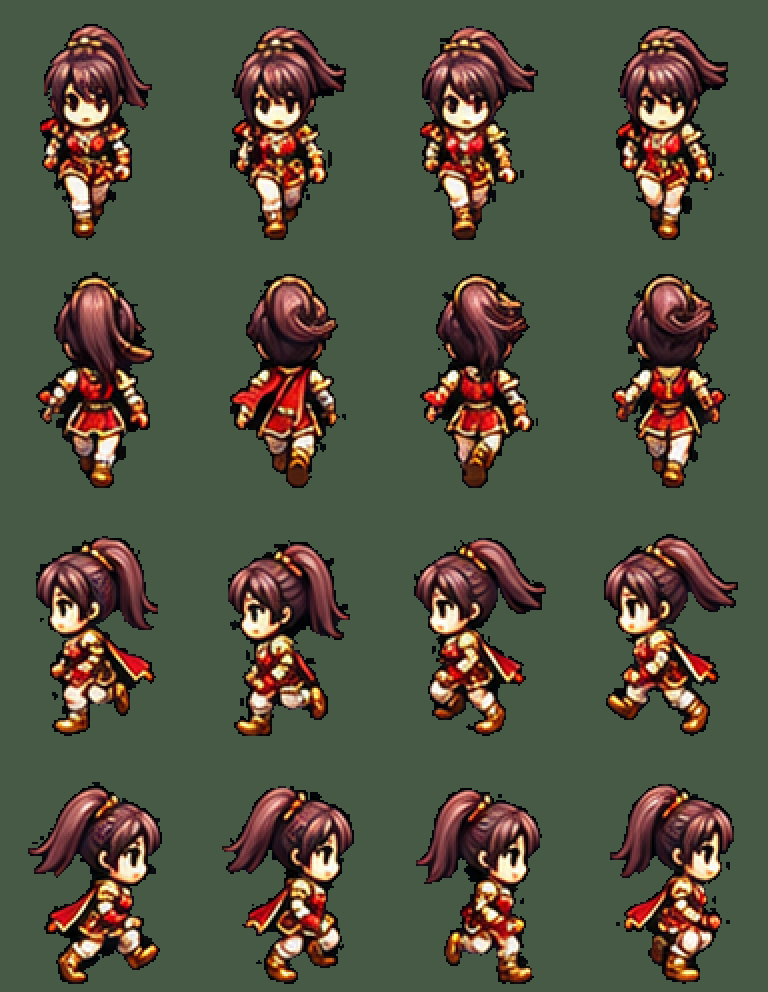
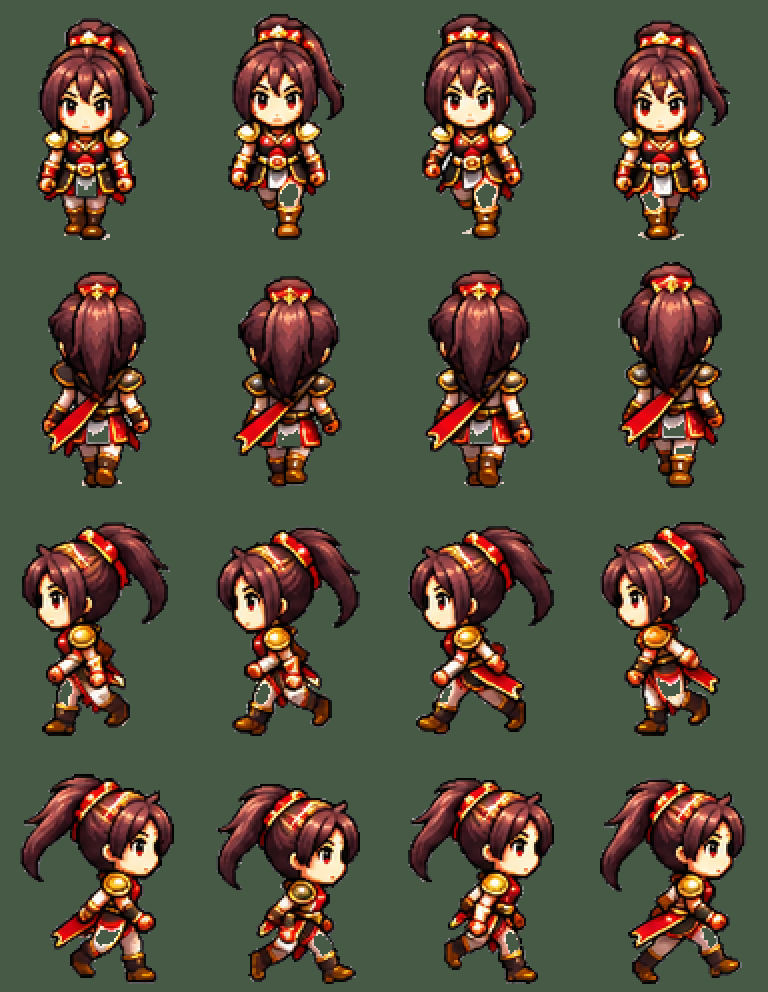
V2-R47: spirit heir, guardian and new female fighter class bodies
- Spirit heir m/f (4 directions), guardian m/f (front/back), redesigned female fighter (4 directions)
- Converter supports framed 4-panel, 2x2 group and two-row layouts
- Tests: smoke 134/134, online 97/97

Claude-Session: https://claude.ai/code/session_01Fx9SAiv1fdMtU2kmML8rNS

diff --git a/tools/smoke-test.js b/tools/smoke-test.js
@@ -515,11 +515,11 @@ const rec = (name, pass, detail) => { results.push({ name, pass, detail }); cons
         const f = HL.fxList.find(f => /^cchart/.test(f.k)); out.push(d + ':' + (f ? f.k + (f.k === 'cchartud' ? (f.up ? '/up' : '/down') : '') : '-')); HL.PS.cast = null }
       HL.PS.cls = 'นักดาบ'; HL.buildSkills(); return out.join(' ') });
     rec('นักธนู/ผู้พิทักษ์ 4 ทิศ: หันลง/ขึ้นใช้ตาราง DOWN/UP 5 จังหวะ, ซ้ายใช้ตารางขวากลับด้าน', r === 'S:cchartud/down N:cchartud/up W:cchart S:cchartud/down N:cchartud/up W:cchart', r); }
-  { const r = await page.evaluate(async () => { const want = { 'นักสู้': ['fighter_m', 'fighter_f'], 'นักฆ่า': ['assassin_m', 'assassin_f'], 'ผู้ใช้มนตรา': ['mage', 'mage'], 'ผู้รักษา': ['healer', 'healer'] };
+  { const r = await page.evaluate(async () => { const want = { 'นักสู้': ['fighter_m', 'fighter_f'], 'นักฆ่า': ['assassin_m', 'assassin_f'], 'ผู้ใช้มนตรา': ['mage', 'mage'], 'ผู้รักษา': ['healer', 'healer'], 'ผู้สืบวิญญาณ': ['spirit_m', 'spirit_f'], 'ผู้พิทักษ์': ['guardian_m', 'guardian_f'] };
       for (let i = 0; i < 200 && !Object.keys(want).every(c => HL.classBody(c, { g: 'm' }) && HL.classBody(c, { g: 'f' })); i++) await new Promise(r => setTimeout(r, 50));
       const bad = []; for (const [c, [m, f]] of Object.entries(want)) { const a = HL.classBody(c, { g: 'm' }), b = HL.classBody(c, { g: 'f' }); if (!a || !a.src.includes('pcl_' + m) || a.naturalWidth !== 384 || !b || !b.src.includes('pcl_' + f)) bad.push(c) }
       return { bad, sword: !!HL.classBody('นักดาบ', { g: 'm' }) } });
-    rec('ตัวละครต้นแบบอาชีพ: นักสู้/นักฆ่า (ชาย-หญิง), มนตรา, รักษา โหลดได้ 4 ทิศ; นักดาบใช้ตัวเดิม', r.bad.length === 0 && !r.sword, JSON.stringify(r)); }
+    rec('ตัวละครต้นแบบอาชีพ 6 อาชีพโหลดได้ 4 ทิศ; นักดาบใช้ตัวเดิม', r.bad.length === 0 && !r.sword, JSON.stringify(r)); }
   rec('หน้าเกมปกติ (ระบบทดสอบอัตโนมัติ) ข้ามหน้าโหลดได้', await page.evaluate(() => document.getElementById('splash').hidden && SND.splash.shown === false));
   rec('ไม่มี JavaScript error ระหว่างทดสอบ', errors.length === 0, errors.slice(0, 5).join(' | '));
   await browser.close(); srv.close();

diff --git a/game/index.html b/game/index.html
@@ -847,7 +847,7 @@ function drawPlayer(){if(PS.dead)return;if(PS.hurt>0&&Math.floor(PS.hurt*20)%2)r
 /* ตัวละครต้นแบบแต่ละอาชีพ (tools/build_class_bodies.py) */
 const CBIMG={};function classBody(cls,look){const C=CLASS_BODY[cls];if(!C)return null;const e=C[look&&look.g==='f'?'f':'m']||C.m||C.f;if(!e)return null;
   if(!CBIMG[e.id]){const im=new Image();im.src='sprites/pcl_'+e.id+'.webp';CBIMG[e.id]=im}const im=CBIMG[e.id];return im.complete&&im.naturalWidth?im:null}
-const CLASS_BODY={"นักสู้":{"m":{"id":"fighter_m","dirs":"SNWE"},"f":{"id":"fighter_f","dirs":"SNWE"}},"นักฆ่า":{"m":{"id":"assassin_m","dirs":"SN"},"f":{"id":"assassin_f","dirs":"SN"}},"ผู้ใช้มนตรา":{"m":{"id":"mage","dirs":"SN"},"f":{"id":"mage","dirs":"SN"}},"ผู้รักษา":{"m":{"id":"healer","dirs":"SN"},"f":{"id":"healer","dirs":"SN"}}};/*CLASS_BODY*/
+const CLASS_BODY={"นักสู้":{"m":{"id":"fighter_m","dirs":"SNWE"},"f":{"id":"fighter_f","dirs":"SNWE"}},"ผู้สืบวิญญาณ":{"m":{"id":"spirit_m","dirs":"SNWE"},"f":{"id":"spirit_f","dirs":"SNWE"}},"ผู้พิทักษ์":{"m":{"id":"guardian_m","dirs":"SN"},"f":{"id":"guardian_f","dirs":"SN"}},"นักฆ่า":{"m":{"id":"assassin_m","dirs":"SN"},"f":{"id":"assassin_f","dirs":"SN"}},"ผู้ใช้มนตรา":{"m":{"id":"mage","dirs":"SN"},"f":{"id":"mage","dirs":"SN"}},"ผู้รักษา":{"m":{"id":"healer","dirs":"SN"},"f":{"id":"healer","dirs":"SN"}}};/*CLASS_BODY*/
 const CLASS_POSE={"นักธนู":{"m":{"id":"archer_m","seq":{"basic":[5,6,8,10],"skill":[4,6,7,8,10,11]}}}};/*CLASS_POSE*/
 /* เอฟเฟกต์สกิลจากตารางท่าของเจ้าของ (tools/build_skill_fx.py) */
 /* ตารางแบบ 4 ทิศ (tools/build_skill_fx4.py): ทิศลง = FRONT, ทิศขึ้น = BACK — ภาพเดียวต่อทิศ เล่นแบบขยาย/เรือง/จาง */

diff --git a/tools/build_class_bodies.py b/tools/build_class_bodies.py
@@ -46,9 +46,31 @@ def grid16(front, back):
     fr = frames_grid(unbg(os.path.join(SRC, front)), 4, 4)[:4]; bk = frames_grid(unbg(os.path.join(SRC, back)), 4, 4)[:4]
     return {'S': fr, 'N': bk}
 
+def quad(name):
+    """ภาพแบบ 2×2 กลุ่ม (ไม่มีกรอบ): แถวบน ซ้าย=หน้า ขวา=หลัง · แถวสอง ซ้าย=หันซ้าย ขวา=หันขวา"""
+    im = unbg(os.path.join(SRC, name)); W = im.size[0]
+    return {'S': row_frames(im.crop((0, 70, W // 2, 290))), 'N': row_frames(im.crop((W // 2, 70, W, 290))),
+            'W': row_frames(im.crop((0, 290, W // 2, 510))), 'E': row_frames(im.crop((W // 2, 290, W, 510)))}
+
+def panels(name):
+    """ภาพแบบกรอบ 4 ช่อง DOWN/UP/LEFT/RIGHT (ใช้ชุดบน)"""
+    f = os.path.join(SRC, name); out = {}
+    for d, (x0, x1) in zip('SNWE', ((14, 372), (398, 754), (782, 1140), (1166, 1524))):
+        tmp = os.path.join('/tmp', 'hl_panel.png'); Image.open(f).convert('RGB').crop((x0, 160, x1, 392)).save(tmp)
+        out[d] = row_frames(unbg(tmp))
+    return out
+
+def two_rows(name, split):
+    im = unbg(os.path.join(SRC, name)); W, H = im.size
+    return {'S': row_frames(im.crop((0, 0, W, split))), 'N': row_frames(im.crop((0, split, W, H)))}
+
 SETS = [  # (id, อาชีพ, เพศที่ใช้, ฟังก์ชัน)
     ('fighter_m', 'นักสู้', ['m'], lambda: fighter('m')),
-    ('fighter_f', 'นักสู้', ['f'], lambda: fighter('f')),
+    ('fighter_f', 'นักสู้', ['f'], lambda: quad('fighter_f2.png')),  # แบบใหม่ (ชุดแดงหางม้า) แทนชุดในภาพนักสู้ชาย/หญิง
+    ('spirit_m', 'ผู้สืบวิญญาณ', ['m'], lambda: panels('spirit_m.png')),
+    ('spirit_f', 'ผู้สืบวิญญาณ', ['f'], lambda: quad('spirit_f.png')),
+    ('guardian_m', 'ผู้พิทักษ์', ['m'], lambda: two_rows('guardian_m.png', 440)),
+    ('guardian_f', 'ผู้พิทักษ์', ['f'], lambda: two_rows('guardian_f.png', 505)),
     ('assassin_m', 'นักฆ่า', ['m'], lambda: assassin('m')),
     ('assassin_f', 'นักฆ่า', ['f'], lambda: assassin('f')),
     ('mage', 'ผู้ใช้มนตรา', ['m', 'f'], lambda: grid16('mage_front.png', 'mage_back.png')),

diff --git a/docs/CHANGELOG.md b/docs/CHANGELOG.md
@@ -1,5 +1,12 @@
 # ประวัติเวอร์ชัน
 
+## V2-R47 — 2026-11-12 (ตัวละครต้นแบบ: ผู้สืบวิญญาณ, ผู้พิทักษ์, นักสู้หญิงแบบใหม่)
+
+- ผู้สืบวิญญาณ ชาย/หญิง ครบ 4 ทิศ · ผู้พิทักษ์ ชาย (เกราะน้ำเงินทอง) / หญิง (เกราะแดงทอง) หน้า+หลัง — ภาพไม่มีชื่อกำกับ ตีความว่าเป็นผู้พิทักษ์ · นักสู้หญิงเปลี่ยนเป็นแบบใหม่ (ชุดแดงหางม้า) ครบ 4 ทิศ
+- `tools/build_class_bodies.py` รองรับภาพแบบกรอบ 4 ช่อง, แบบ 2×2 กลุ่ม, แบบ 2 แถว
+- ตอนนี้ 7 อาชีพมีตัวละครของตัวเอง (นักธนูยังใช้ตัวเดิม)
+- ทดสอบ: smoke 134/134, online 97/97 · ภาพ `evidence/r47_class_bodies2.png`
+
 ## V2-R46 — 2026-11-12 (ตัวละครต้นแบบของแต่ละอาชีพ)
 
 - สำรองไฟล์ก่อนแก้: `game/versions/r45-before-class-bodies.html`; ต้นฉบับ `assets/sprites_src/classbody/`
